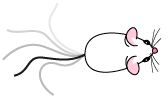
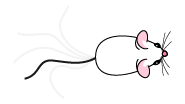
gyro cat and mouse with moving tales

Changed region(s): [[0.0, 0.2755, 0.9524, 0.9796], [0.0298, 0.2755, 0.2976, 0.398]]

diff --git a/p5/gyro-final-v2/sketch.js b/p5/gyro-final-v2/sketch.js
@@ -9,6 +9,8 @@ let boids = [];
 var flock;
 var woodFloor;
 var mice = [];
+let numFrame = 8;
+let currentFrame = 0;
 
 var catHead;
 var frontL;
@@ -39,6 +41,7 @@ let base = 150,
 var alpha, beta, gamma; // orientation data
 var xPosition = 0;
 var yPosition = 0;
+var zPosition = 0;
 var x = 0; // acceleratiobn data
 var y = 0;
 var z = 0;
@@ -46,16 +49,15 @@ var z = 0;
 
 function preload() {
   //================mice
-  mice = loadImage('assets/1x/mice5.png');
-  // mice[0] = loadImage('assets/1x/mice1.png');
-  // mice[1] = loadImage('assets/1x/mice2.png');
-  // mice[2] = loadImage('assets/1x/mice3.png');
-  // mice[3] = loadImage('assets/1x/mice4.png');
-  // mice[4] = loadImage('assets/1x/mice5.png');
-  // mice[5] = loadImage('assets/1x/mice4.png');
-  // mice[6] = loadImage('assets/1x/mice3.png');
-  // mice[7] = loadImage('assets/1x/mice2.png');
-
+  //mice = loadImage('assets/1x/mice5.png');
+  mice[0] = loadImage('assets/1x/mice1.png');
+  mice[1] = loadImage('assets/1x/mice2.png');
+  mice[2] = loadImage('assets/1x/mice3.png');
+  mice[3] = loadImage('assets/1x/mice4.png');
+  mice[4] = loadImage('assets/1x/mice5.png');
+  mice[5] = loadImage('assets/1x/mice4.png');
+  mice[6] = loadImage('assets/1x/mice3.png');
+  mice[7] = loadImage('assets/1x/mice2.png');
 
   //===============cat
   catHead = loadImage("assets/1x/head.png");
@@ -78,7 +80,7 @@ function setup() {
 
   flock = new Flock();
   // Add an initial set of boids into the system
-  for (let i = 0; i < 10; i++) {
+  for (let i = 0; i < 20; i++) {
     let b = new Boid(random(width), random(height));
     flock.addBoid(b);
   }
@@ -89,6 +91,8 @@ function setup() {
   beta = 0;
   gamma = 0;
 
+  frameRate(8);
+
 }
 //==================draw
 function draw() {
@@ -96,7 +100,7 @@ function draw() {
   image(woodFloor, windowWidth / 2, windowHeight / 2, windowWidth, windowHeight);
 
   let catPos0 = createVector(windowWidth / 2, windowHeight / 2);
-  let catPos = createVector(xPosition - windowWidth / 2, yPosition - windowHeight / 2);
+
   drawAxis(catPos0, catPos);
 
 let myHeading = catPos.heading();
@@ -107,8 +111,9 @@ let myHeading = catPos.heading();
   // takes your variable and maps it from range 1 to range 2
   // map(yourVar, range1_x, range1_y, range2_x, range2_y) ;
   //================switched x and y maps
-  yPosition = map(gamma, -60, 60, 0, width);
-  xPosition = map(beta, -30, 30, 0, height);
+  zPosition = map(alpha, 0, 0, 0, 0);
+  yPosition = map(gamma, 30, -30, 0, width);
+  xPosition = map(beta, 30, -30, 0, height);
 
 
   catPos.x = xPosition
@@ -156,9 +161,7 @@ function Flock() {
 }
 
 Flock.prototype.run = function() {
-  for (let i = 0; i < flock.boids.length; i++) {
-    flock.boids[i].run(flock.boids); // Passing the entire list of boids to each boid individually
-  }
+
 }
 
 Flock.prototype.addBoid = function(b) {
@@ -207,12 +210,12 @@ function Boid(x, y) {
   this.velocity = createVector(random(-10, 10), random(-10, 10));
   this.position = createVector(x, y);
   this.r = 3.0;
-  this.maxspeed = 5.0; // Maximum speed
+  this.maxspeed = 10; // Maximum speed
   this.maxforce = 0.5 // Maximum steering force
   //   this.maxforce = 0.05; // Maximum steering force
 }
 //---------------------end boid variables
-Boid.prototype.run = function(boids) {
+Boid.prototype.run = function() {
   //==================these are the prototypes for boid
   this.flock(boids);
   this.update();
@@ -228,13 +231,13 @@ Boid.prototype.applyForce = function(force) {
 }
 //--------------------- end force
 // We accumulate a new acceleration each time based on three rules
-Boid.prototype.flock = function(boids) {
+Boid.prototype.flock = function() {
   let sep = this.separate(boids); // Separation
   //let ali = this.align(boids); //align
   let coh = this.cohesion(boids); // Cohesion
   // Arbitrarily weight these forces
-  sep.mult(2.0);
-  coh.mult(0.0);
+  sep.mult(5.0);
+  coh.mult(0.05);
   // Add the force vectors to acceleration
   this.applyForce(sep);
   // this.applyForce(ali);
@@ -246,7 +249,7 @@ Boid.prototype.update = function() {
   // Update velocity
   this.velocity.add(this.acceleration);
   // Limit speed
-  this.velocity.limit(this.maxspeed);
+  //this.velocity.limit(this.maxspeed);
   this.position.add(this.velocity);
   // Reset accelertion to 0 each cycle
   this.acceleration.mult(0);
@@ -277,24 +280,29 @@ Boid.prototype.render = function() {
   push();
   translate(this.position.x, this.position.y);
   rotate(theta);
-  image(mice, this.r * 3, this.r * 3);
+
+  image(mice[currentFrame], 0, 0);
+  currentFrame++;
+  if (currentFrame == mice.length) {
+    currentFrame = 0;
+  }
 
   pop();
 }
 // --------------------- end render
 // Wraparound
 Boid.prototype.borders = function() {
-  if (this.position.x < -50) this.position.x = windowWidth + 50;
-  if (this.position.y < -50) this.position.y = windowHeight + 50;
-  if (this.position.x > windowWidth + 50) this.position.x = -50;
-  if (this.position.y > windowHeight + 50) this.position.y = -50;
+  if (this.position.x < -150) this.position.x = windowWidth + 150;
+  if (this.position.y < -150) this.position.y = windowHeight + 150;
+  if (this.position.x > windowWidth + 150) this.position.x = - 150;
+  if (this.position.y > windowHeight + 150) this.position.y = -150;
 }
 //--------------------- end borders
 // Separation
 // Method checks for nearby boids and steers away
 Boid.prototype.separate = function(boids) {
   let angle = 0;
-  let angleVel = 0.2;
+  let angleVel = 0.5;
   let desiredseparation = 160;
   let steer = createVector(0, 0);
   let count = 0;
@@ -327,31 +335,7 @@ Boid.prototype.separate = function(boids) {
   return steer;
 }
 //--------------------end Separation
-// Alignment
-// For every nearby boid in the system, calculate the average velocity
-Boid.prototype.align = function(boids) {
-  let neighbordist = 50;
-  let sum = createVector(0, 0);
-  let count = 0;
-  for (let i = 0; i < boids.length; i++) {
-    let d = p5.Vector.dist(this.position, boids[i].position);
-    if ((d > 0) && (d < neighbordist)) {
-      sum.add(boids[i].velocity);
-      count++;
-    }
-  }
-  if (count > 0) {
-    sum.div(count);
-    sum.normalize();
-    sum.mult(this.maxspeed);
-    let steer = p5.Vector.sub(sum, this.velocity);
-    steer.limit(this.maxforce);
-    return steer;
-  } else {
-    return createVector(0, 0);
-  }
-}
-//---------------------end align
+
 // Cohesion
 // For the average location (i.e. center) of all nearby boids, calculate steering vector towards that location
 Boid.prototype.cohesion = function(boids) {
@@ -390,7 +374,7 @@ function drawAxis(base, vec) {
 
 function cat() {
 
-    angle = -90;
+rotate(90);
 push();
 
 
